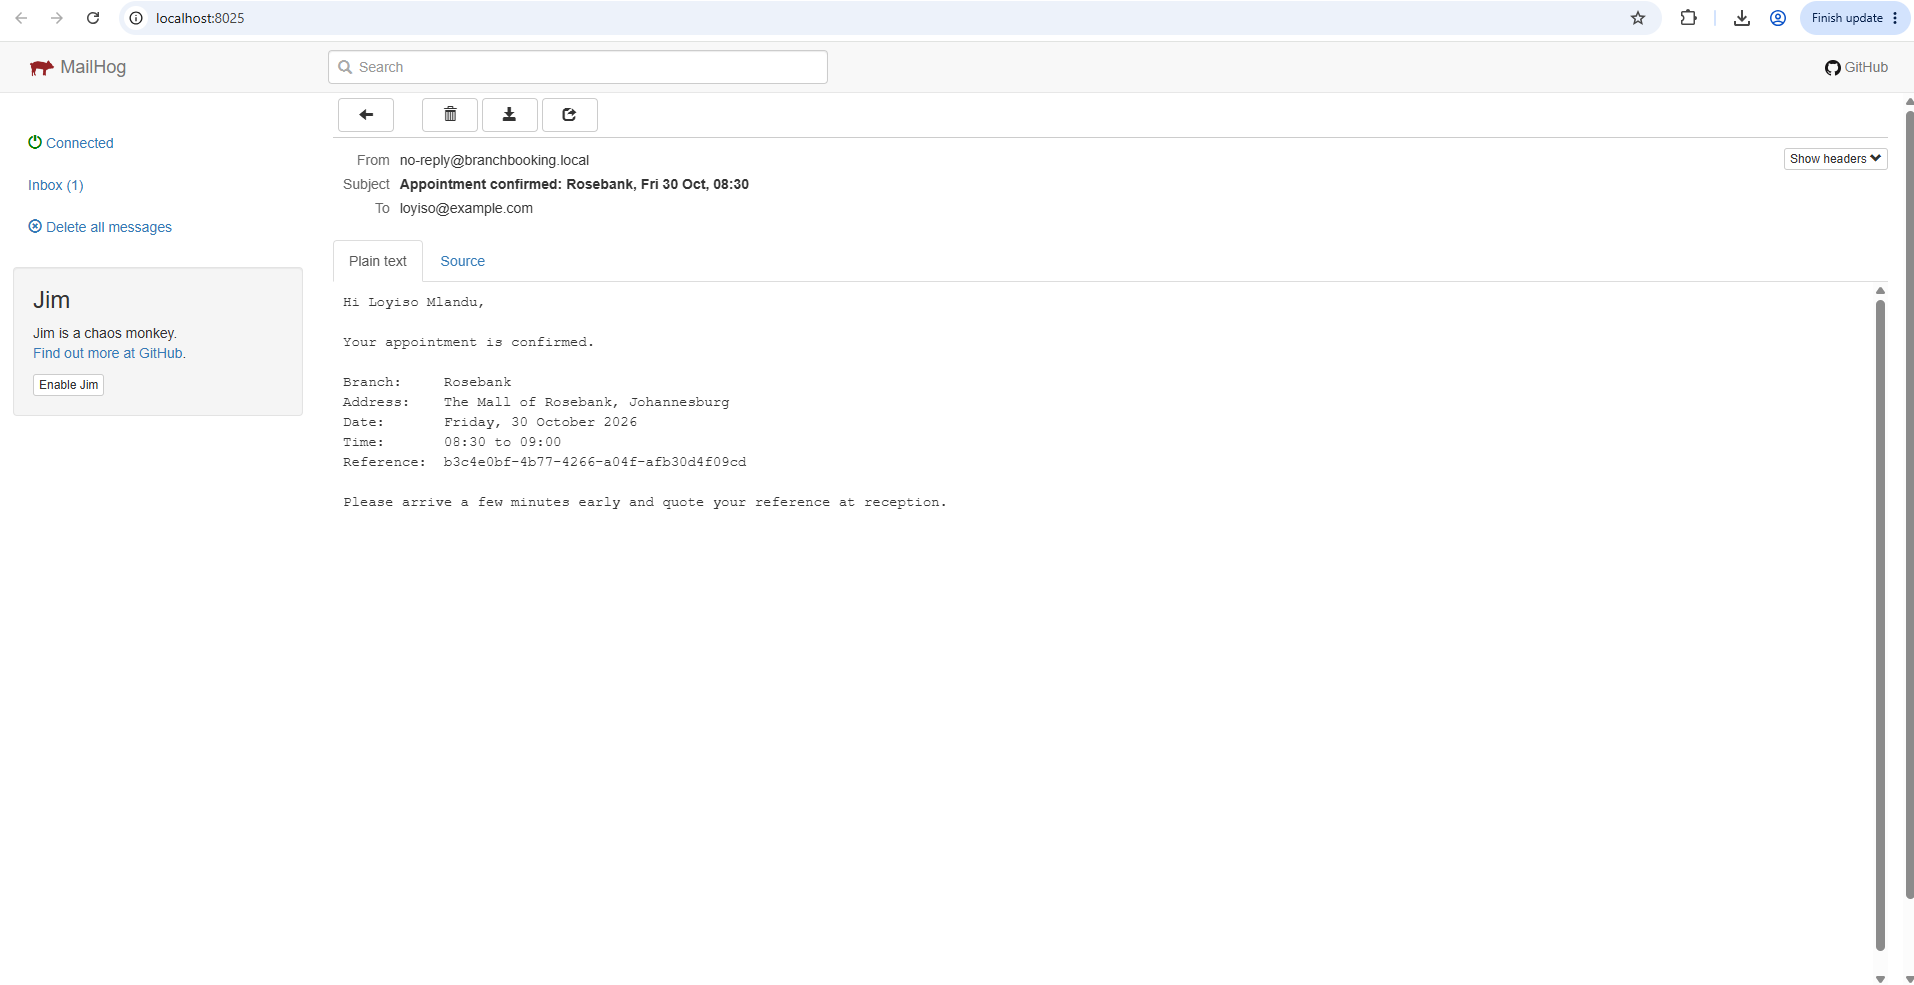
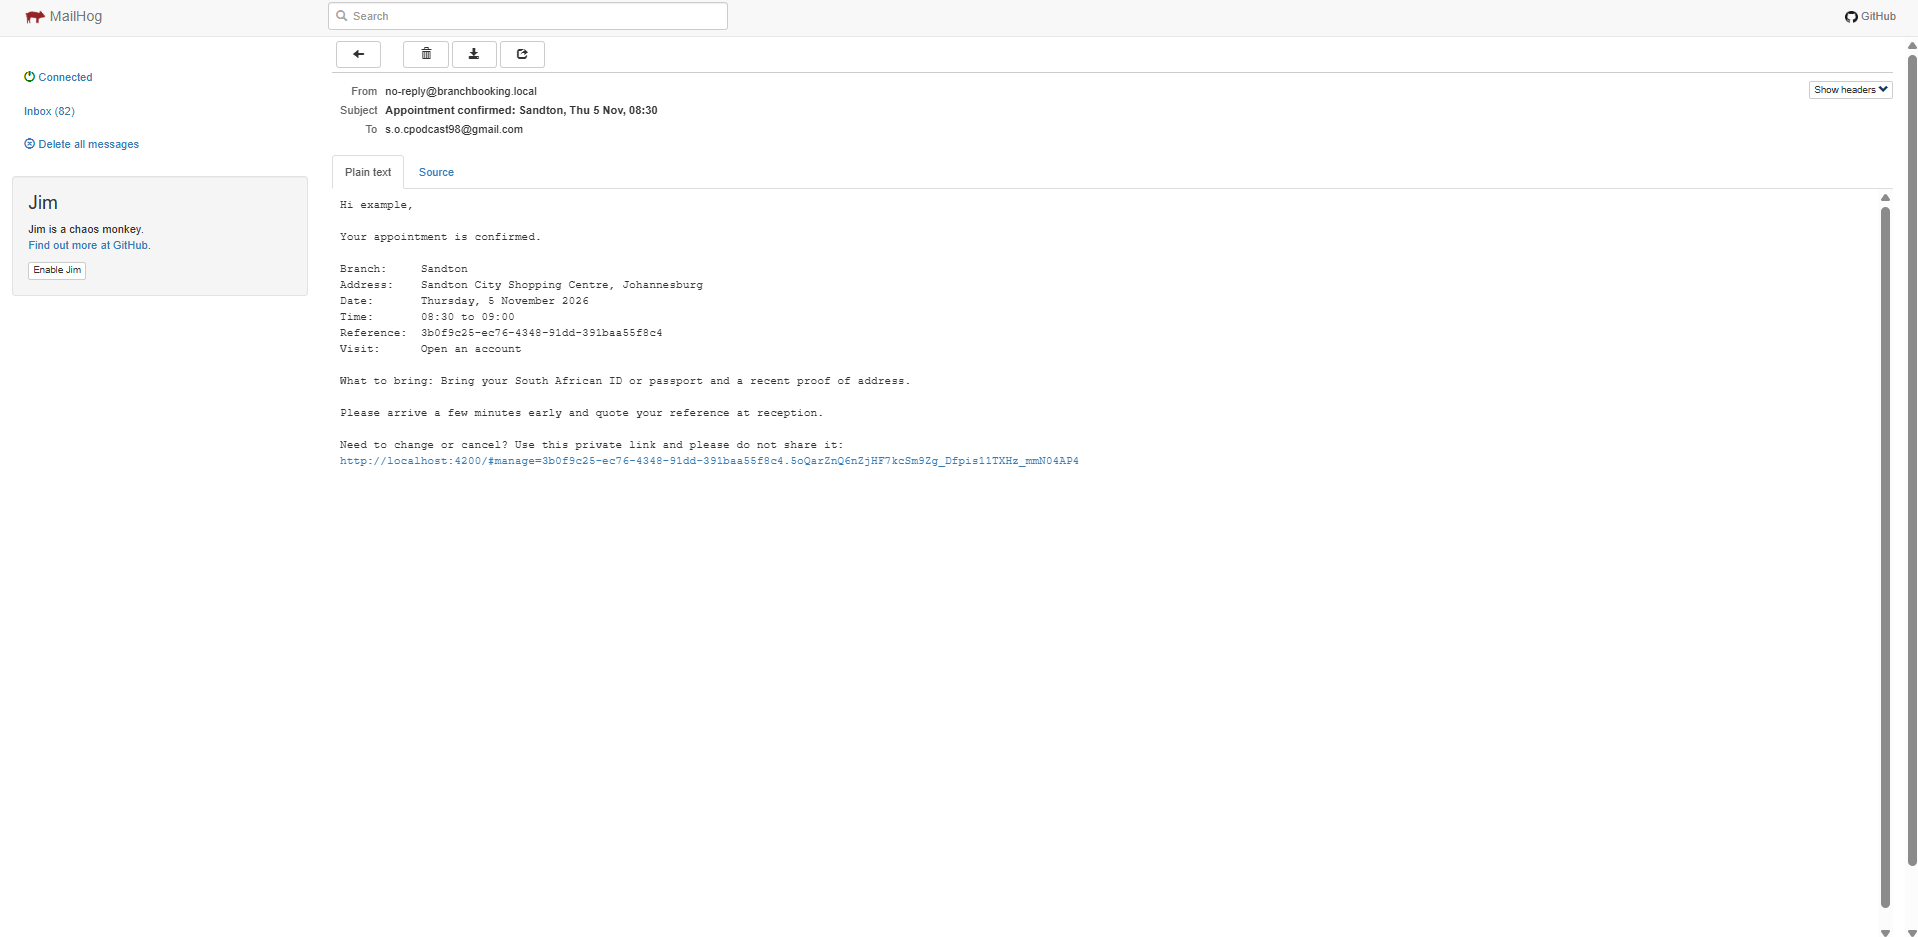
docs: final screenshots of the new pages, and diagrams that match the email outbox

diff --git a/README.md b/README.md
@@ -48,13 +48,23 @@ https://github.com/user-attachments/assets/71fd2b8d-ebad-4a1a-a372-9b0eba21229e
 
 ## Screenshots
 
+**Choose a branch by its photo, then a day on a calendar that knows South African public holidays.**
+
 ![Booking page](docs/booking-page.png)
+
+**Say why you are visiting, and see what to bring.**
+
+![Visit reason](docs/visit-reason.png)
+
+**A confirmation slip, and the confirmation email in the inbox.**
 
 ![Confirmed booking](docs/confirmation-slip.png)
 
-![Changing or cancelling a booking](docs/manage-booking.png)
-
 ![Confirmation email in MailHog](docs/confirmation-email.png)
+
+**Change or cancel with the private link.**
+
+![Changing or cancelling a booking](docs/manage-booking.png)
 
 ## Architecture
 
@@ -63,7 +73,7 @@ flowchart LR
     Browser["Browser"] -->|"HTTP"| Nginx["nginx: UI, API proxy, rate limits, CSP"]
     Nginx -->|"/api"| Backend["Spring Boot API"]
     Backend --> Postgres[("PostgreSQL")]
-    Backend -->|"SMTP, after commit"| Mail["MailHog inbox"]
+    Backend -->|"queued email, sent over SMTP"| Mail["MailHog inbox"]
 ```
 
 Two customers click the same slot at the same moment. The database, not the application code, decides the winner:
@@ -82,7 +92,7 @@ sequenceDiagram
     DB-->>API: B rejected by the unique constraint
     API-->>A: 201 Created
     API-->>B: 409 Conflict
-    Note over API: The confirmation email is sent only after A's commit
+    Note over API: A's confirmation email is queued in the same transaction, and only sent once it has committed
 ```
 
 ## Run it with Docker (recommended)
